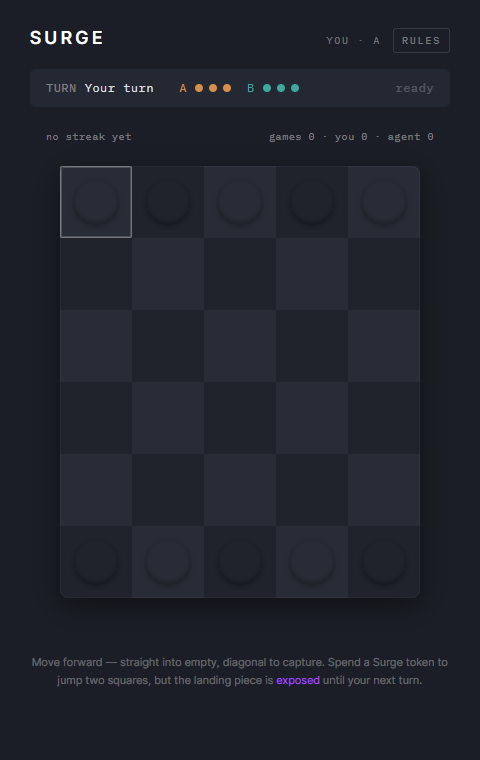
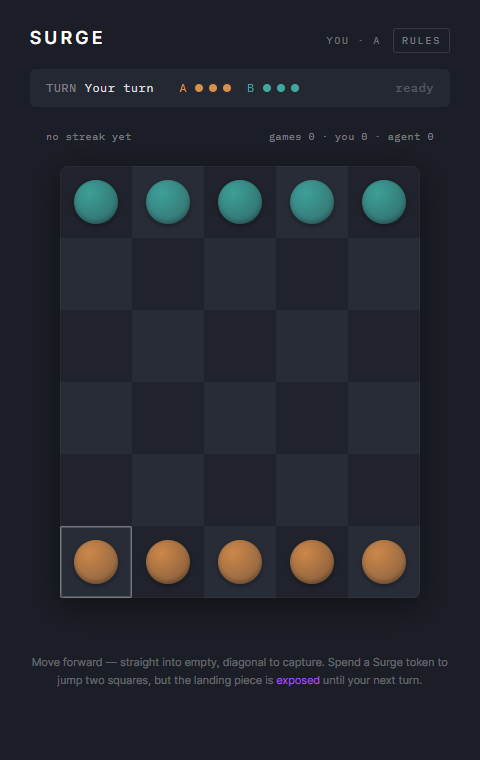
Port the color-mix() and flipRow() fixes onto the extension's components
Both fixes existed only on master (uncommitted) and never carried over
when this branch was created -- Piece.tsx/Board.tsx/CapturedFade were
still using `${color}ee` etc., which is invalid CSS once color is a
var() reference (every piece rendered flat gray), and Board.tsx never
had flipRow() at all (A rendered at the top instead of the bottom).

Ported flipRow() to Board.tsx (render loop, Piece/CapturedFade/SurgeTrail
calls, and the ArrowUp/ArrowDown keyboard semantics, which have to flip
along with the visual order or up/down would feel backwards) and the
color-mix(in srgb, ...) fix to Piece.tsx and CapturedFade.

Verified in a real browser (served the actual built dist/ output, not
the dev server): piece backgroundImage resolves to color(srgb 0.851
0.557 0.290 / 0.93) at the bottom row, matching --color-player-a
(#d98e4a) exactly, and color(srgb 0.247 0.663 0.627 / 0.93) at the top
row, matching --color-player-b (#3fa9a0) -- A at the bottom, B at the
top, real colors, not gray.

Found but did not fix (out of scope for this round): Readout.tsx's pip
glow has the identical `${color}55` bug, but it was never actually fixed
on master either -- not a regression, a separate pre-existing issue.

diff --git a/frontend/src/components/surge/Board.tsx b/frontend/src/components/surge/Board.tsx
@@ -56,6 +56,13 @@ export function Board({
     return () => window.removeEventListener("resize", recompute);
   }, []);
 
+  // Visual orientation: B renders at the top, A at the bottom, so the
+  // human's own pieces sit closest to them. board[0]=A / board[5]=B in the
+  // underlying data never changes -- this is a pure display-coordinate
+  // transform. It's its own inverse (a vertical mirror), so the same
+  // function converts board-row -> visual-row and visual-row -> board-row.
+  const flipRow = (r: number) => ROWS - 1 - r;
+
   const boardW = cell * COLS;
   const boardH = cell * ROWS;
 
@@ -98,8 +105,10 @@ export function Board({
   function handleKey(e: React.KeyboardEvent) {
     if (disabled) return;
     let [r, c] = focus;
-    if (e.key === "ArrowUp") r = Math.max(0, r - 1);
-    else if (e.key === "ArrowDown") r = Math.min(ROWS - 1, r + 1);
+    // B (high r) renders visually on top now, so ArrowUp moves toward
+    // higher r and ArrowDown toward lower r -- the reverse of board-row order.
+    if (e.key === "ArrowUp") r = Math.min(ROWS - 1, r + 1);
+    else if (e.key === "ArrowDown") r = Math.max(0, r - 1);
     else if (e.key === "ArrowLeft") c = Math.max(0, c - 1);
     else if (e.key === "ArrowRight") c = Math.min(COLS - 1, c + 1);
     else if (e.key === "Enter" || e.key === " ") {
@@ -151,7 +160,8 @@ export function Board({
           }}
         >
           {Array.from({ length: ROWS * COLS }).map((_, idx) => {
-            const r = Math.floor(idx / COLS);
+            // flipRow converts that visual slot to the real board row.
+            const r = flipRow(Math.floor(idx / COLS));
             const c = idx % COLS;
             const key = `${r},${c}`;
             const isFocus = focus[0] === r && focus[1] === c;
@@ -214,8 +224,8 @@ export function Board({
           {surgeTrail && (
             <SurgeTrail
               key={surgeTrail.key}
-              from={surgeTrail.from}
-              to={surgeTrail.to}
+              from={[flipRow(surgeTrail.from[0]), surgeTrail.from[1]]}
+              to={[flipRow(surgeTrail.to[0]), surgeTrail.to[1]]}
               cell={cell}
               visible
             />
@@ -229,7 +239,7 @@ export function Board({
               <Piece
                 key={p.id}
                 owner={p.owner}
-                row={p.pos[0]}
+                row={flipRow(p.pos[0])}
                 col={p.pos[1]}
                 cell={cell}
                 exposed={isExposed(state, p.pos)}
@@ -243,7 +253,7 @@ export function Board({
           {/* Captured pieces fading out */}
           <AnimatePresence>
             {capturedThisTurn.map((p) => (
-              <CapturedFade key={`cap-${p.id}`} owner={p.owner} row={p.pos[0]} col={p.pos[1]} cell={cell} />
+              <CapturedFade key={`cap-${p.id}`} owner={p.owner} row={flipRow(p.pos[0])} col={p.pos[1]} cell={cell} />
             ))}
           </AnimatePresence>
         </div>
@@ -309,7 +319,9 @@ function CapturedFade({
           style={{
             width: size,
             height: size,
-            background: `radial-gradient(circle at 35% 30%, ${color}ee, ${color}aa 60%, ${color}66 100%)`,
+            // See Piece.tsx for why this can't be `${color}ee` etc. -- var()
+            // doesn't accept a directly-appended alpha hex suffix.
+            background: `radial-gradient(circle at 35% 30%, color-mix(in srgb, ${color} 93%, transparent), color-mix(in srgb, ${color} 67%, transparent) 60%, color-mix(in srgb, ${color} 40%, transparent) 100%)`,
           }}
         />
       </div>

diff --git a/frontend/src/components/surge/Piece.tsx b/frontend/src/components/surge/Piece.tsx
@@ -101,7 +101,12 @@ function PieceVisual({
         style={{
           width: size,
           height: size,
-          background: `radial-gradient(circle at 35% 30%, ${color}ee, ${color}aa 60%, ${color}66 100%)`,
+          // color is a var() reference, not a literal hex string -- you
+          // can't append hex alpha digits ("ee"/"aa"/"66") to a var()
+          // call, that produces an invalid color value the browser just
+          // drops, which is why every piece rendered flat gray. color-mix()
+          // is the correct way to blend a var() with alpha.
+          background: `radial-gradient(circle at 35% 30%, color-mix(in srgb, ${color} 93%, transparent), color-mix(in srgb, ${color} 67%, transparent) 60%, color-mix(in srgb, ${color} 40%, transparent) 100%)`,
           boxShadow: winner
             ? "0 0 24px var(--color-victory), 0 0 8px var(--color-victory)"
             : exposed